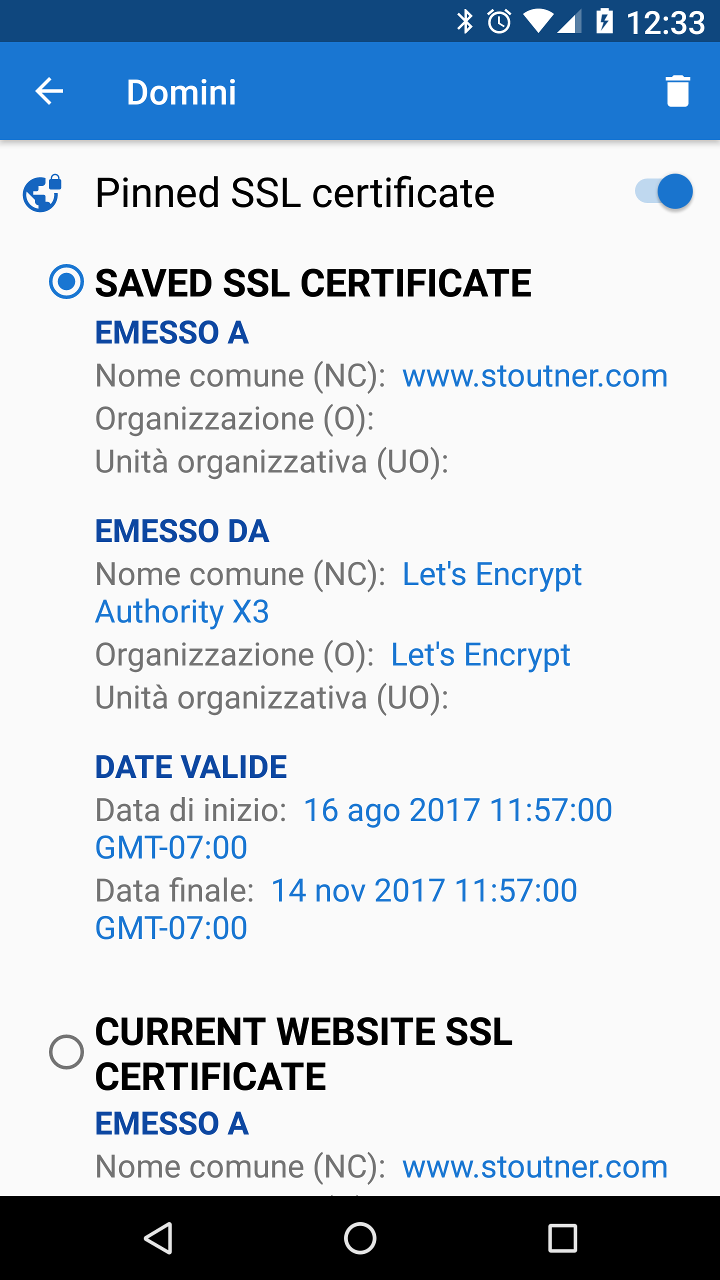
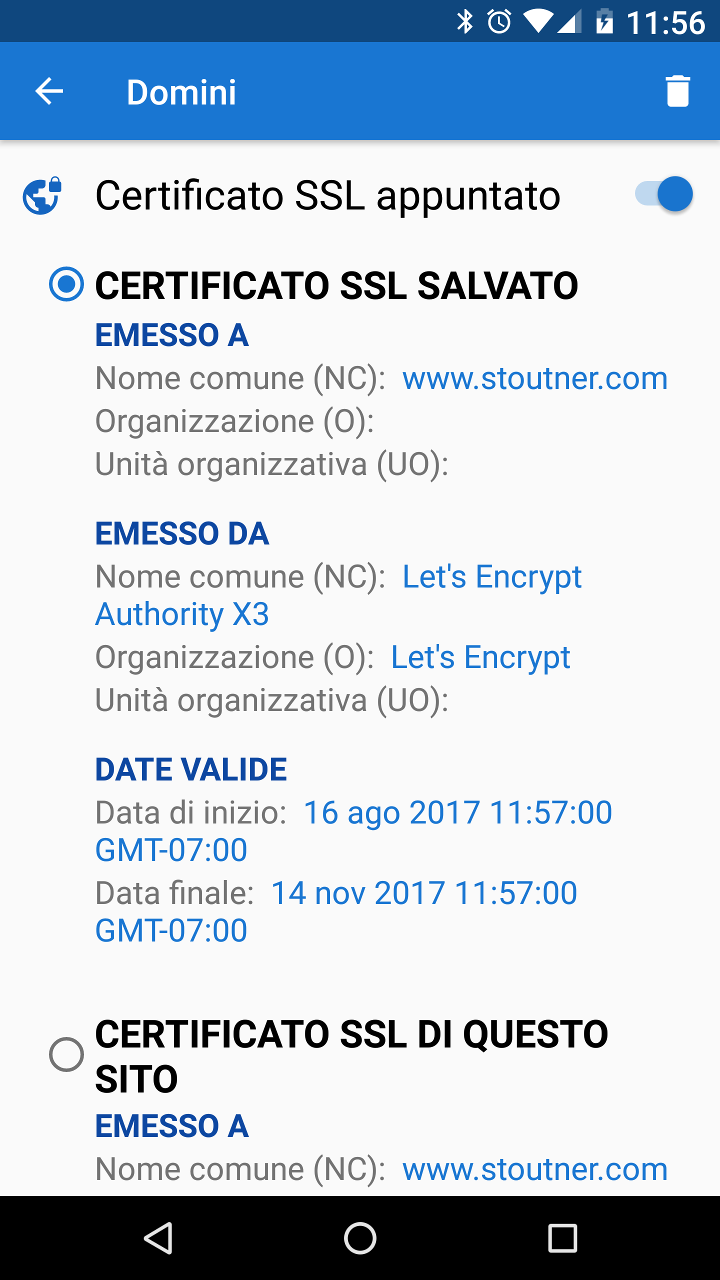
Updated Italian translation provided by Francesco Buratti.

diff --git a/app/src/main/assets/it/about_changelog.html b/app/src/main/assets/it/about_changelog.html
@@ -30,20 +30,21 @@
 
     <body>
         <h3>2.5 (versione codice 25)</h3>
-        <p><a href="https://git.stoutner.com/?p=PrivacyBrowser.git;a=commitdiff;h=80ddcb075d03a4c78263d1ff80466f3df0967f6d">26 August 2017</a> - minima API 19, target API 25</p>
+        <p><a href="https://git.stoutner.com/?p=PrivacyBrowser.git;a=commitdiff;h=80ddcb075d03a4c78263d1ff80466f3df0967f6d">26 Agosto 2017</a> - minima API 19, target API 25</p>
         <ul>
-            <li>Add <a href="https://redmine.stoutner.com/issues/54">SSL certificate pinning</a> to domain settings.</li>
-            <li>Add <a href="https://redmine.stoutner.com/issues/163">searx.me</a> to the list of search engines.</li>
-            <li><a href="https://redmine.stoutner.com/issues/164">Update the default homepage</a> to work with both JavaScript enabled or disabled.</li>
-            <li>Fix a bug that caused the website title to be <a href="https://redmine.stoutner.com/issues/175">lost on rotate</a>.</li>
-            <li><a href="https://redmine.stoutner.com/issues/138">Ghost the “Clear DOM Storage” options menu item</a> if there is nothing to delete.</li>
-            <li>Use <a href="https://redmine.stoutner.com/issues/161">non-bolded red text</a> to indicate unencrypted websites.</li>
-            <li>Fix a bug that sometimes caused <a href="https://redmine.stoutner.com/issues/160">custom domain user agents to fail</a>.</li>
-            <li>Fix a bug that caused website modifications (like the sorting of a list) to be lost if Privacy Browser was <a href="https://redmine.stoutner.com/issues/139">moved to the background</a>.</li>
-            <li>Many <a href="https://redmine.stoutner.com/issues/102">small</a> <a href="https://redmine.stoutner.com/issues/153">improvements</a> <a href="https://redmine.stoutner.com/issues/97">were</a> <a href="https://redmine.stoutner.com/issues/108">
-                made</a> <a href="https://redmine.stoutner.com/issues/171">to</a> <a href="https://redmine.stoutner.com/issues/172">the</a> <a href="https://redmine.stoutner.com/issues/173">Domains</a> <a href="https://redmine.stoutner.com/issues/152">activity</a>.</li>
-            <li>Updated Italian translation provided by Francesco Buratti.</li>
-            <li>Updated Spanish translation provided by <a href="mailto:emails@joseleon.me">Jose A. León Becerra</a>.</li>
+            <li>Aggiunta la possibilità di <a href="https://redmine.stoutner.com/issues/54">appuntare i certificati SSL</a> alle impostazioni dei domini.</li>
+            <li>Aggiunto <a href="https://redmine.stoutner.com/issues/163">searx.me</a> alla lista dei motori di ricerca.</li>
+            <li><a href="https://redmine.stoutner.com/issues/164">Aggiornata la pagina iniziale di default</a> in modo da funzionare sia con JavaScript abilitato che disabilitato.</li>
+            <li>Corretto un baco che provocava, in caso di rotazione dello schermo, la <a href="https://redmine.stoutner.com/issues/175">perdita del titolo dei siti web</a>.</li>
+            <li><a href="https://redmine.stoutner.com/issues/138">Disabilitata l'opzione del menu “Elimina DOM Storage”</a> quando non c'è nulla da cancellare.</li>
+            <li>Utilizzo di un <a href="https://redmine.stoutner.com/issues/161">carattere rosso</a> per indicare i siti non criptati.</li>
+            <li>Correzione di un baco che a volte provocava <a href="https://redmine.stoutner.com/issues/160">il malfunzionamento degli user agent personalizzati per i domini</a>.</li>
+            <li>Correzione di un baco che provocava modifiche ai siti web (visualizzati come semplici elenchi) nel caso in cui Privacy Browser venisse <a href="https://redmine.stoutner.com/issues/139">messo in background</a>.</li>
+            <li>Svariati <a href="https://redmine.stoutner.com/issues/102">piccoli</a> <a href="https://redmine.stoutner.com/issues/153">miglioramenti</a> <a href="https://redmine.stoutner.com/issues/97">sono stati</a>
+                <a href="https://redmine.stoutner.com/issues/108">apportati</a> <a href="https://redmine.stoutner.com/issues/171">alla</a> <a href="https://redmine.stoutner.com/issues/172">schermata</a> <a href="https://redmine.stoutner.com/issues/173">dei</a>
+                <a href="https://redmine.stoutner.com/issues/152">domini</a>.</li>
+            <li>Aggiornamento della traduzione Italiana fornita da Francesco Buratti.</li>
+            <li>Aggiornamento della traduzione Spagnola fornita da <a href="mailto:emails@joseleon.me">Jose A. León Becerra</a>.</li>
         </ul>
 
         <h3>2.4 (versione codice 24)</h3>
@@ -209,13 +210,13 @@
         </ul>
 
         <h3>1.9.1 (versione codice 11)</h3>
-        <p><a href="https://git.stoutner.com/?p=PrivacyBrowser.git;a=commitdiff;h=6de831ce03c8b9114212870715c6c722e26f5b28">27 August 2016</a> - minima API 19, target API 23</p>
+        <p><a href="https://git.stoutner.com/?p=PrivacyBrowser.git;a=commitdiff;h=6de831ce03c8b9114212870715c6c722e26f5b28">27 Agosto 2016</a> - minima API 19, target API 23</p>
         <ul>
             <li>Changed asset image links to relative paths so Privacy Browser will build on F-Droid.</li>
         </ul>
 
         <h3>1.9 (versione codice 10)</h3>
-        <p><a href="https://git.stoutner.com/?p=PrivacyBrowser.git;a=commitdiff;h=7c6dae59026beeb9e32fcc4d6706129f8bee029c">26 August 2016</a> - minima API 19, target API 23</p>
+        <p><a href="https://git.stoutner.com/?p=PrivacyBrowser.git;a=commitdiff;h=7c6dae59026beeb9e32fcc4d6706129f8bee029c">26 Agosto 2016</a> - minima API 19, target API 23</p>
         <ul>
             <li>German translation provided by <a href="mailto:aaron@gerlach.com">Aaron Gerlach</a>.</li>
             <li>Add the ability to <a href="https://redmine.stoutner.com/issues/2">view SSL certificate details and SSL error messages</a>. This allows Privacy Browser to load web pages with self-signed certificates.</li>

diff --git a/app/src/main/assets/it/guide_ssl_certificate_pinning.html b/app/src/main/assets/it/guide_ssl_certificate_pinning.html
@@ -41,25 +41,26 @@
     </head>
 
     <body>
-        <h3><img class="title" src="../en/images/ic_vpn_lock_dark_blue.png"> Connect with Confidence</h3>
+        <h3><img class="title" src="../en/images/ic_vpn_lock_dark_blue.png"> Connettiti in sicurezza</h3>
 
-        <p>When visiting an encrypted URL (one that begins with HTTPS), the webserver uses an SSL certificate to both encrypt the information sent to the browser and to identify the server.
-            The purpose of the server identification is to prevent a machine located between the browser and the webserver from pretending to be the server and decrypting the information in transit.
-            This type of attack is known as a Man In The Middle (MITM) attack. SSL certificates are generated by certificate authorities: companies that verify a server’s identity and produce a certificate for a fee.
-            Android has a list of trusted certificate authorities, and will accept any of their certificates for any website.
-            It isn’t supposed to be possible for an organization to acquire an SSL certificate for a domain they do not control, but in practice many governments and large corporations have been able to do so.</p>
+        <p>Quando si accede ad una URL criptata (quelle che iniziano con HTTPS), il server web utilizza un certificato SSL con lo scopo di criptare le informazioni inviate al browser e di identificare il server stesso.
+            Lo scopo di questa identificazione è quello di impedire che una macchina situata tra il browser e il server web tenti di decriptare le informazioni in transito.
+            Questo tipo di attacco è conosciuto come attacco “Man In The Middle (MITM)”.
+            I certificati SSL sono generati dalle autorità di certificazione: sono aziende che verificano l'identità dei server e producono il certificato (a pagamento).
+            Android ha una lista di autorità di certificazione fidate, e pertanto accetterà qualsiasi loro certificato fornito dai siti web.
+            Non dovrebbe essere possibile che una organizzazione qualsiasi possa acquisire un certificato SSL per un dominio che non sia sotto il proprio controllo, ma in pratica alcuni governi e grosse multinazionali sono in grado di farlo.</p>
 
-        <p>The purpose of SSL certificate pinning is to tell the browser that only one specific SSL certificate is to be trusted for a particular domain. Any other certificate, even if it is valid, will be rejected.</p>
+        <p>Lo scopo di appuntare un certificato SSL è quello di dire al browser che solo un determinato certificato SSL è fidato per un particolare dominio. Qualsiasi altro certificato, per quanto valido, sarà rifiutato.</p>
 
         <p><img class="center" src="images/ssl_certificate_mismatch.png"></p>
 
-        <p>SSL certificates expire on a specified date, so even pinned SSL certificates will legitimately need to be updated from time to time.
-            As a general rule, pinning SSL certificates probably isn’t needed in the majority of cases.
-            But for those who suspect that powerful organizations may be targeting them, SSL certificate pinning can detect and thwart a MITM attack.</p>
+        <p>I certificati SSL scadono in corrispondenza di una data specifica, così anche i certificati che sono stati appuntati dovranno essere aggiornati regolarmente.
+            Come regola generale, nella maggioranza dei casi, appuntare un certificato SSL non dovrebbe essere necessario.
+            Per coloro che sospettano però di essere sorvegliati da qualche organizzazione, appuntare il certificato SSL può permettere di scoprire e sventare un attacco "MITM".</p>
 
         <p><img class="center" src="images/pinned_ssl_certificate.png"></p>
 
-        <p>SSL certificates can be pinned in Domain Settings.
-            Besides protecting against MITM attacks, pinning a self-signed certificate for a device like a wireless router or access point will remove the error message that is normally presented every time its website is loaded.</p>
+        <p>I certificati SSL possono essere appuntati nelle impostazioni dei domini.
+            Oltre a proteggere dagli attacchi “MITM”, appuntare un certificato auto-firmato per un dispositivo come un router wireless o un access point eliminerà il messaggio di errore che si presenta ogni volta che viene caricato un sito web.</p>
     </body>
 </html>

diff --git a/app/src/main/assets/it/guide_user_agent.html b/app/src/main/assets/it/guide_user_agent.html
@@ -73,6 +73,8 @@
             Firefox o Chrome sono gli user agents più comuni, ma vengono aggiornati spesso e il loro numero di versione cambia così di frequente che lo user agent incluso in Privacy Browser molto facilmente
             sarà rimasto indietro rispetto alla maggior parte degli user agent tracciati nei log dei server.</p>
 
-        <p>WebView di Android non permette che lo user agent non sia specificato. In tal caso infatti, WebView invia al server lo user agent di default.</p>
+        <p>Alcuni siti web <a href="https://www.stoutner.com/user-agent-problems/">non funzionano correttamente</a> se non riconoscono lo User Agent.
+            L'utilizzo delle impostazioni dei domini per impostare come User Agent <strong>WebView Default</strong>, oppure un altro che sia riconosciuto comunemente generalmente risolve il problema.
+            WebView di Android non permette che lo user agent non sia specificato. In tal caso infatti, WebView invia al server lo user agent di default.</p>
     </body>
 </html>
